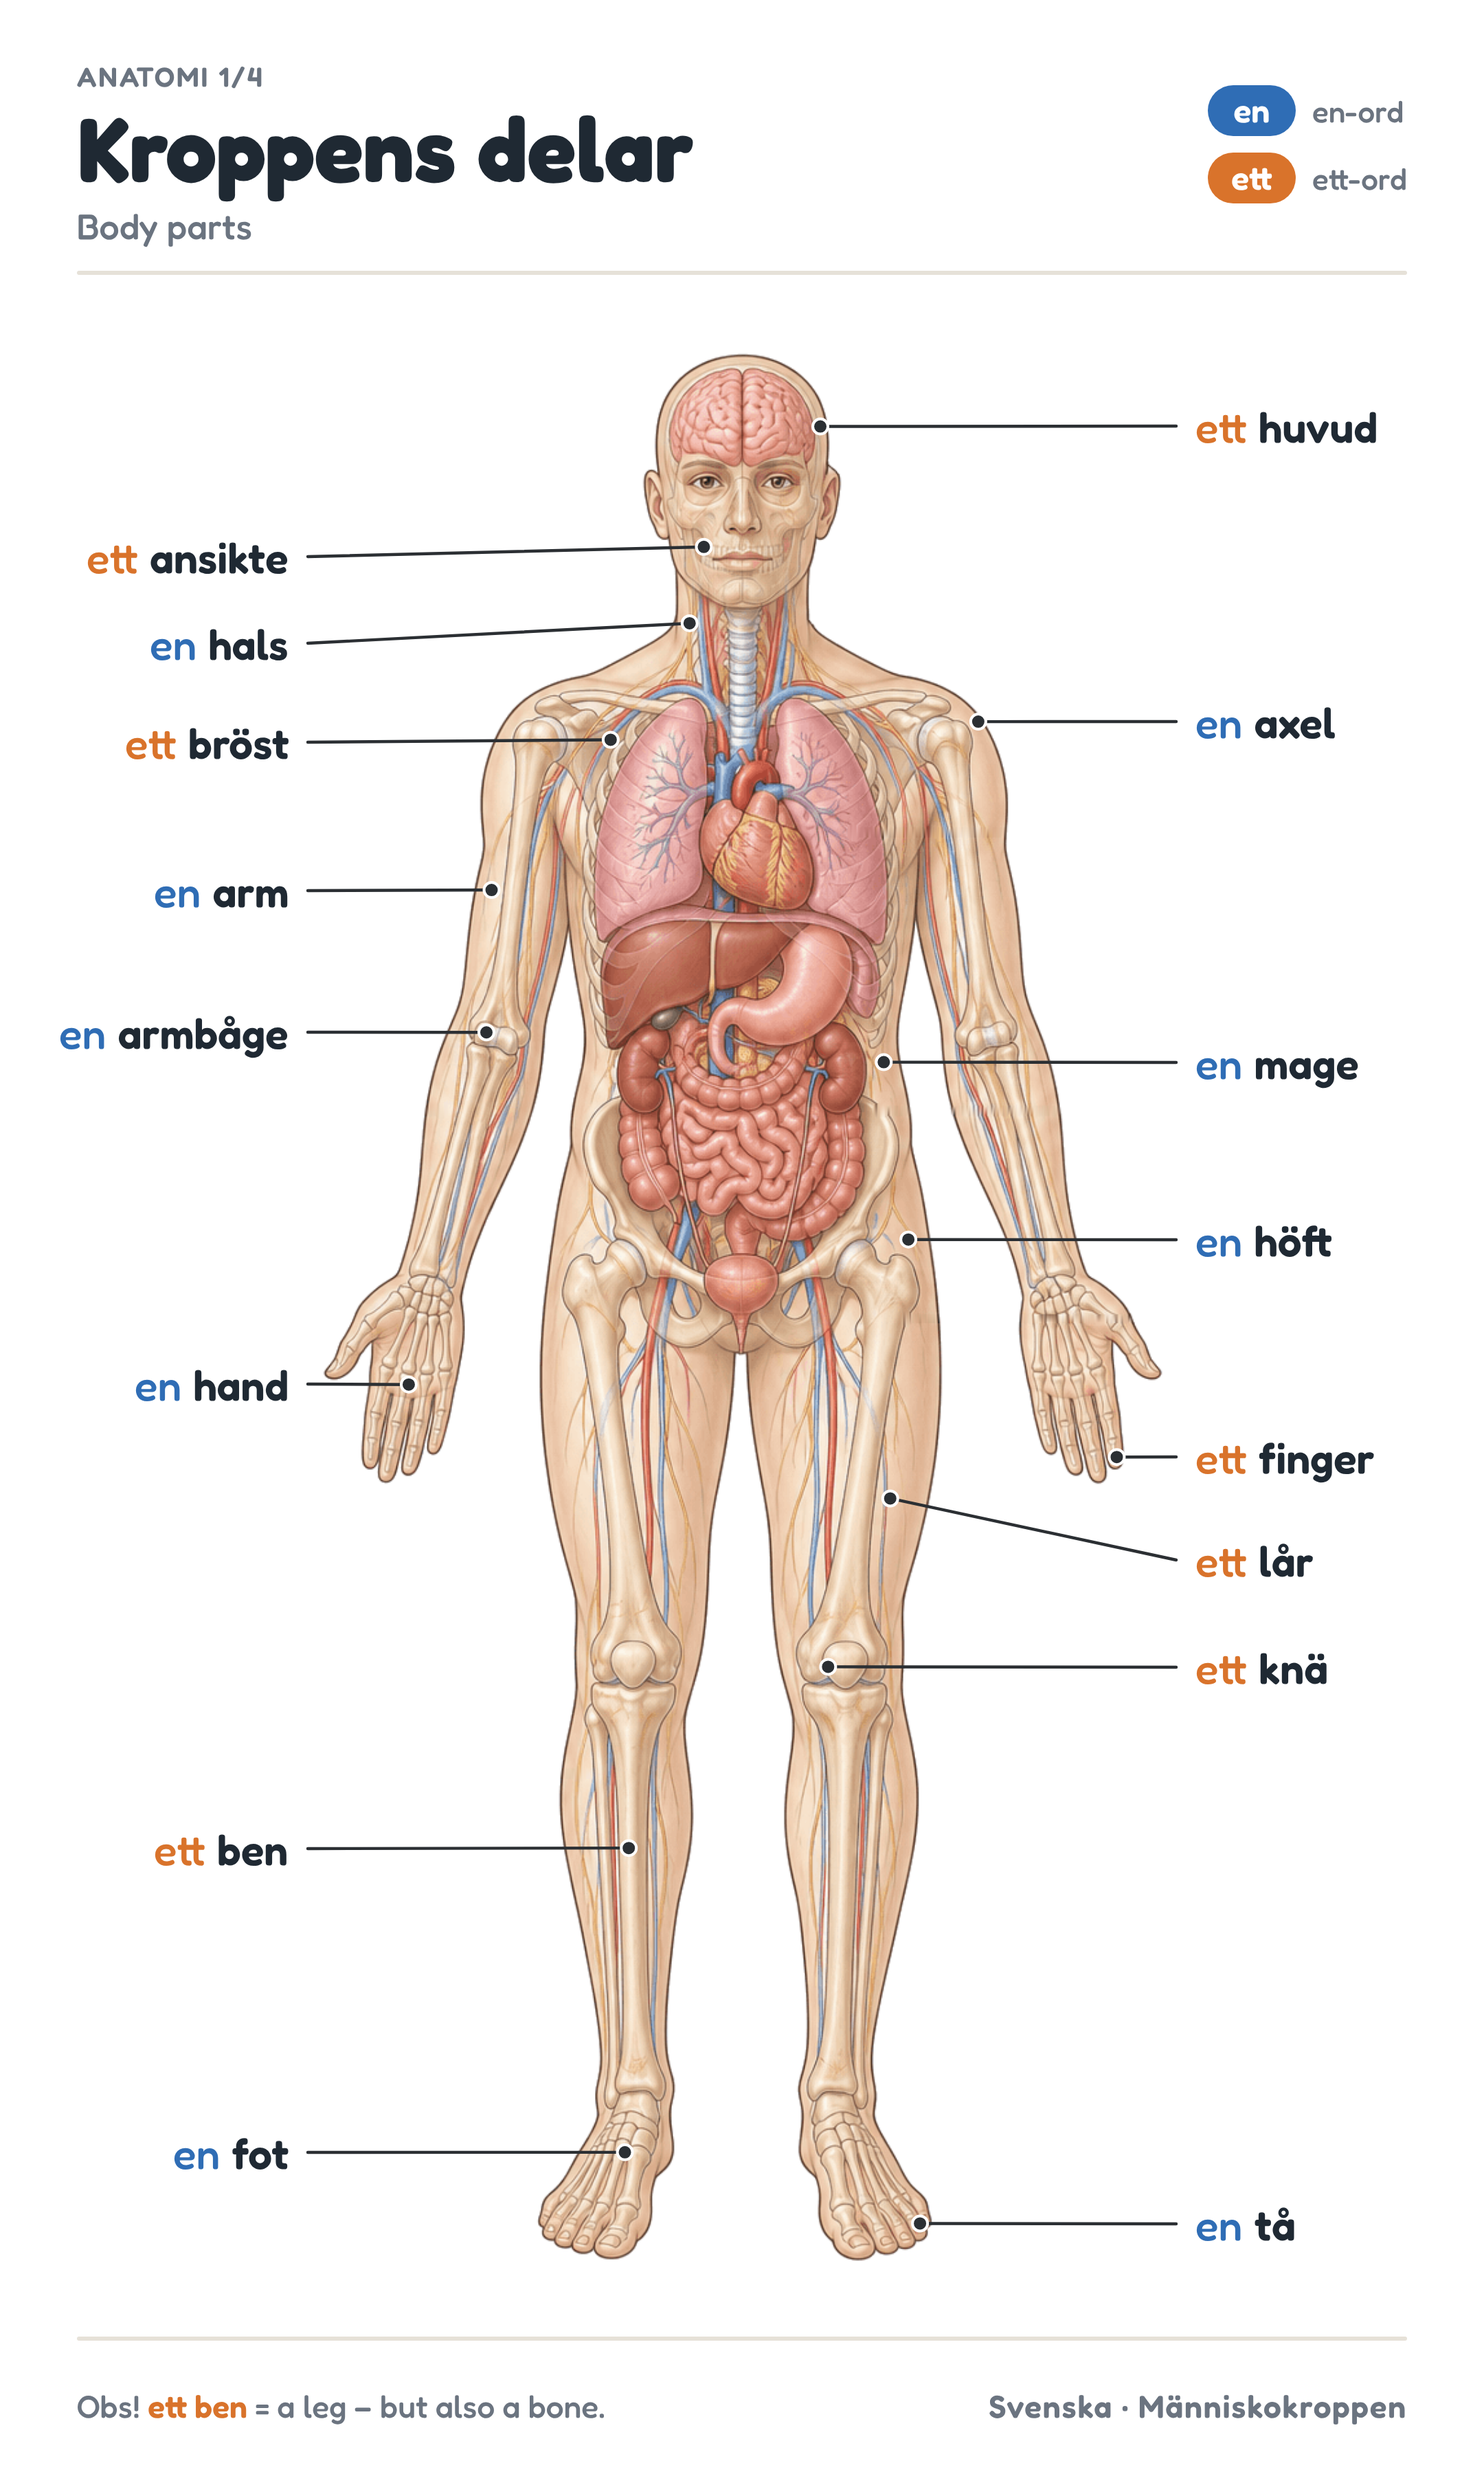
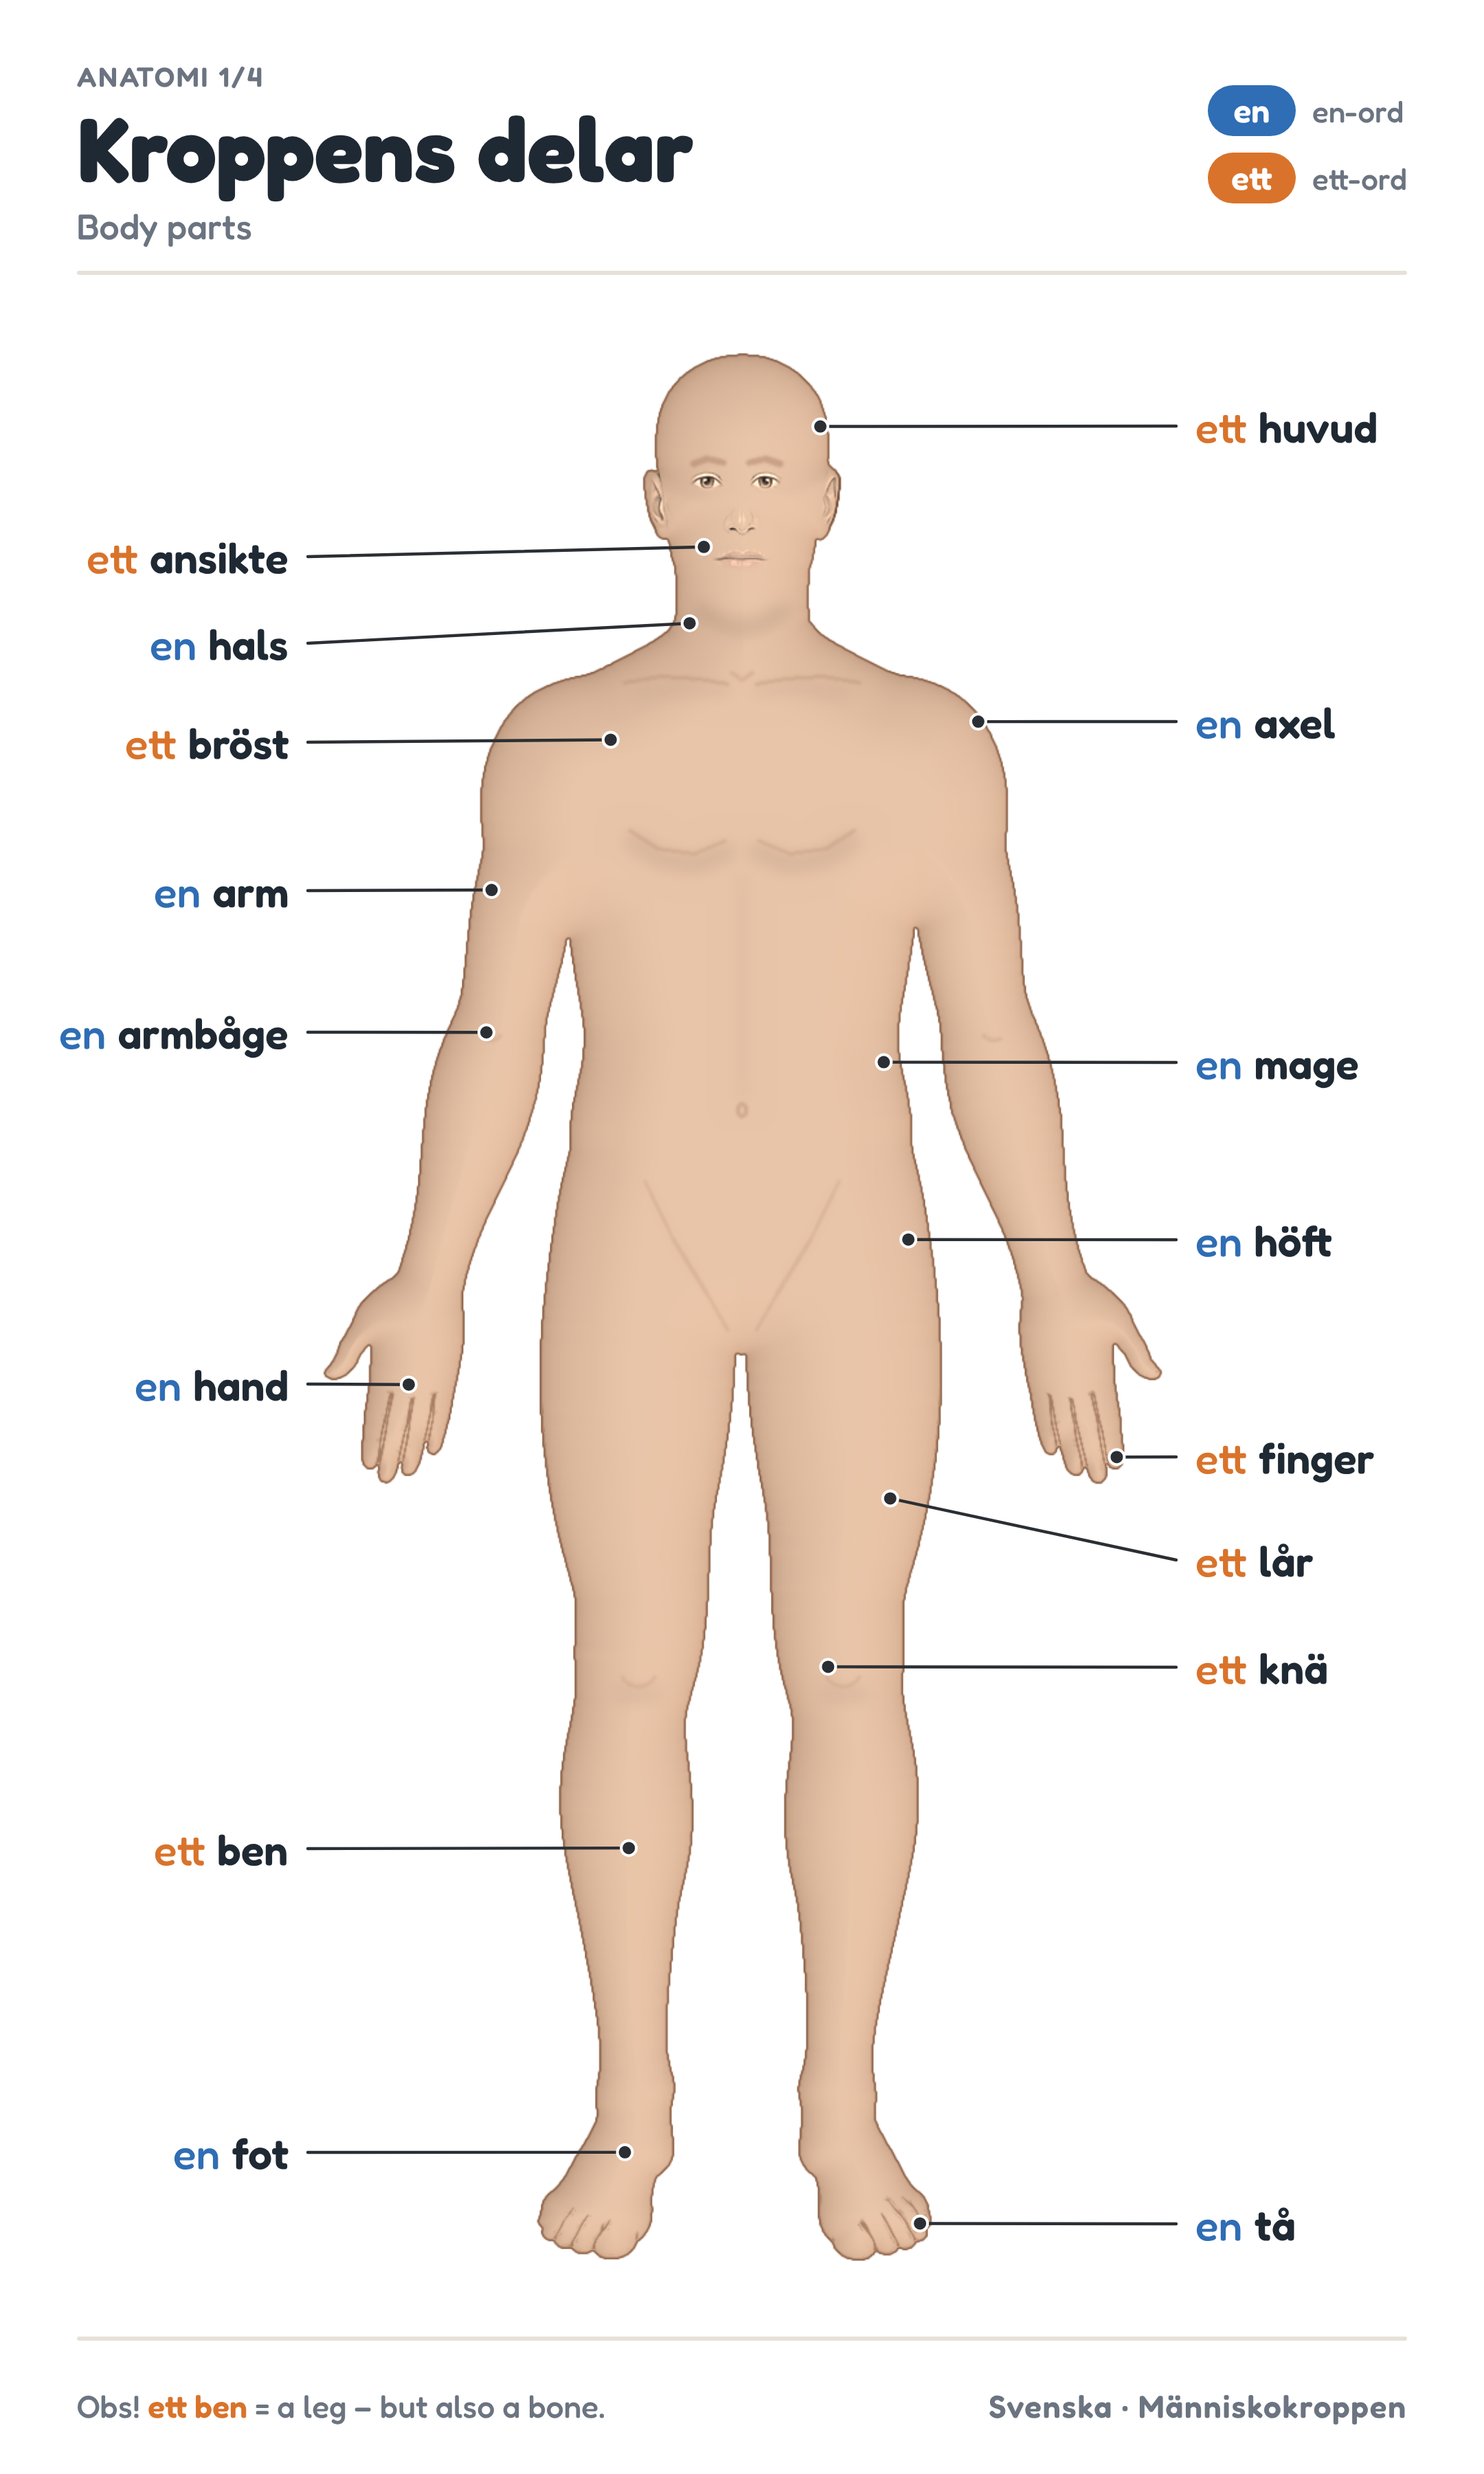
Repaint Kroppens delar figure as skin without internal organs
skin.py rebuilds the body-parts illustration as a plain skin figure in
the same pose (silhouette from clean.png, cylinder shading, face, finger
and toe detail carried over from the original, soft surface lines), so
all 16 callouts and their anchor points are unchanged.

Claude-Session: https://claude.ai/code/session_01TG5BPAGj8tCVEq5a6crAoD

Changed region(s): [[0.2171, 0.1244, 0.7755, 0.9333]]

diff --git a/anatomi/kroppen/poster.html b/anatomi/kroppen/poster.html
@@ -4,7 +4,7 @@
   number: 1,
   title: 'Kroppens delar',
   subtitle: 'Body parts',
-  image: { src: 'clean.png', crop: [150, 8, 822, 1494], x: 224, y: 50, width: 633 },
+  image: { src: 'skin.png', crop: [150, 8, 822, 1494], x: 224, y: 50, width: 633 },
   labelX: { L: 212, R: 868 },
   labels: [
     // left column = the figure's right side

diff --git a/anatomi/kroppen/skin.py b/anatomi/kroppen/skin.py
@@ -1,0 +1,180 @@
+"""Repaint the body-parts figure as plain skin (no organs, bones or vessels).
+
+Reads clean.png (label-free, same pose and pixel coordinates as source.png) and
+writes skin.png. The silhouette and pose are unchanged, so the anchor points in
+poster.html stay valid.
+
+1. Silhouette: everything not connected to the white border background,
+   smoothed at 4x so the contour is not jagged.
+2. Skin: one skin tone, shaded like a cylinder across each limb (distance to the
+   edge / local half-width) and lit slightly from the upper left.
+3. Face and ears: eyes, brows, nose, lips and ear folds are carried over from the
+   original as a soft-thresholded high-pass inside small feature masks, so the
+   strong strokes survive and the faint skull lines do not.
+4. Fingers and toes: the dark skin-outline strokes that separate them are copied
+   from the original (only in the finger/toe zones, small specks dropped).
+5. Surface lines: a few soft strokes (collarbones, chest, navel, groin, knees,
+   elbows, ankles) drawn in source pixel coordinates.
+6. Outline: a warm brown contour along the silhouette.
+
+Run: python3 anatomi/kroppen/skin.py
+"""
+import os
+import cv2
+import numpy as np
+
+HERE = os.path.dirname(os.path.abspath(__file__))
+src = cv2.imread(os.path.join(HERE, 'clean.png'), cv2.IMREAD_COLOR).astype(np.float32)
+H, W = src.shape[:2]
+MID = 485  # the figure's midline (x)
+gray = cv2.cvtColor(src.astype(np.uint8), cv2.COLOR_BGR2GRAY).astype(np.float32)
+
+# ---------------------------------------------------------------- silhouette
+near_white = (src.min(axis=2) >= 244).astype(np.uint8)
+ff = near_white.copy()
+flood = np.zeros((H + 2, W + 2), np.uint8)
+for x in range(0, W, 4):
+    for y in (0, H - 1):
+        if ff[y, x] == 1:
+            cv2.floodFill(ff, flood, (x, y), 2)
+for y in range(0, H, 4):
+    for x in (0, W - 1):
+        if ff[y, x] == 1:
+            cv2.floodFill(ff, flood, (x, y), 2)
+body = (ff != 2).astype(np.uint8)
+n, lab, stats, _ = cv2.connectedComponentsWithStats(body, 8)
+body = np.isin(lab, [i for i in range(1, n) if stats[i, cv2.CC_STAT_AREA] > 400]).astype(np.uint8)
+
+# smooth the contour at 4x, then derive alpha and the outline band from it
+S = 4
+big = cv2.resize(body.astype(np.float32), (W * S, H * S), interpolation=cv2.INTER_LINEAR)
+big = cv2.GaussianBlur(big, (0, 0), 3.0)
+bigm = (big > 0.5).astype(np.uint8)
+din = cv2.distanceTransform(bigm, cv2.DIST_L2, 5) / S  # inside distance, source px
+alpha = cv2.resize(bigm.astype(np.float32), (W, H), interpolation=cv2.INTER_AREA)
+line_w = 1.6
+edge_big = np.clip((line_w - din) / 0.6 + 0.5, 0, 1) * bigm
+edge = cv2.resize(edge_big.astype(np.float32), (W, H), interpolation=cv2.INTER_AREA)
+body = (alpha > 0.5).astype(np.uint8)
+
+# ---------------------------------------------------------------- shading
+dist = cv2.distanceTransform(body, cv2.DIST_L2, 5)
+halfw = cv2.dilate(dist, cv2.getStructuringElement(cv2.MORPH_ELLIPSE, (61, 61)))
+halfw = cv2.GaussianBlur(halfw, (0, 0), 10)
+halfw = np.clip(halfw, 4, 70)  # wide torso: shade only the flanks
+t = np.clip(dist / halfw, 0, 1)
+cyl = np.sqrt(1 - (1 - t) ** 2)  # 0 at the edge, 1 on the ridge
+
+sm = cv2.GaussianBlur(dist, (0, 0), 3)
+gx = cv2.Sobel(sm, cv2.CV_32F, 1, 0, ksize=5)
+gy = cv2.Sobel(sm, cv2.CV_32F, 0, 1, ksize=5)
+mag = np.sqrt(gx ** 2 + gy ** 2) + 1e-3
+facing = (gx * -0.6 + gy * -0.8) / mag  # > 0: the nearest edge is up-left (lit side)
+side = np.clip(facing, -1, 1) * (1 - t) * 0.07
+
+shade = 0.80 + 0.20 * cyl + side
+base = np.array([168, 196, 232], np.float32)  # BGR, warm light skin
+skin = base[None, None, :] * shade[..., None]
+skin += np.array([-10, -6, 4], np.float32)[None, None, :] * (1 - cyl)[..., None]
+
+
+def soft_mask(ellipses, blur):
+    m = np.zeros((H, W), np.float32)
+    for (cx, cy, rx, ry) in ellipses:
+        cv2.ellipse(m, (cx, cy), (rx, ry), 0, 0, 360, 1, -1)
+    return cv2.GaussianBlur(m, (0, 0), blur)
+
+
+# ---------------------------------------------------------------- face, ears
+# Multiplicative detail transfer: ratio of each pixel to its local average, in
+# log space, soft-thresholded so faint skull lines vanish and the strong eye,
+# nose, lip and ear strokes remain. No colour patch is pasted, so no seams.
+lum = gray + 1.0
+logr = np.log(lum / cv2.GaussianBlur(lum, (0, 0), 3.5))
+detail = np.sign(logr) * np.maximum(np.abs(logr) - 0.07, 0)
+features = soft_mask([
+    (459, 113, 11, 6), (502, 113, 10, 6),     # eyes (not brows: drawn below)
+    (484, 146, 11, 9),                        # nose tip and nostrils
+    (484, 174, 18, 5),                        # lips (the line between them)
+    (422, 130, 6, 22), (556, 130, 6, 22),     # ears
+], 2)
+EYE_MID = 961  # eyes at x 459 and 502 -> mirror axis x = 480.5
+flip_detail = detail[:, ::-1]
+flip_detail = np.roll(flip_detail, EYE_MID - (W - 1), axis=1)  # x -> 961 - x
+flip_src = np.roll(src[:, ::-1], EYE_MID - (W - 1), axis=1)
+left_eye = soft_mask([(502, 113, 13, 8)], 1.5)
+detail = detail * (1 - left_eye) + flip_detail * left_eye
+src_eyes = src * (1 - left_eye[..., None]) + flip_src * left_eye[..., None]
+skin *= np.exp(detail * 1.2 * features)[..., None]
+# iris and lip colour, lightly
+colour = soft_mask([(459, 113, 4, 4), (502, 113, 4, 4)], 1.2)
+skin = skin * (1 - colour[..., None] * 0.5) + src_eyes * (colour[..., None] * 0.5)
+lips = soft_mask([(484, 175, 15, 5)], 2.0)
+skin = skin * (1 - lips[..., None] * 0.18) + np.array([120, 130, 200], np.float32) * (lips[..., None] * 0.18)
+
+# ---------------------------------------------------------------- fingers, toes
+zones = np.zeros((H, W), np.uint8)
+zones[800:900, 150:360] = 1     # fingers, figure's right hand
+zones[800:900, 620:850] = 1     # fingers, figure's left hand
+zones[1438:1500, 340:690] = 1   # toes
+core = ((gray < 150) & (zones > 0)).astype(np.uint8)
+n, lab, stats, _ = cv2.connectedComponentsWithStats(core, 8)
+core = np.isin(lab, [i for i in range(1, n) if stats[i, cv2.CC_STAT_AREA] >= 25]).astype(np.uint8)
+region = cv2.dilate(core, cv2.getStructuringElement(cv2.MORPH_ELLIPSE, (5, 5)))
+# continuous (anti-aliased) darkness of the original strokes, so lines stay unbroken
+dark = np.clip((185 - gray) / 60, 0, 1) * region * (dist > 2.5)
+dark = cv2.GaussianBlur(dark, (0, 0), 0.5) * 0.8
+
+# ---------------------------------------------------------------- form shadows
+shadow = np.zeros((H, W), np.float32)
+
+
+def shade_stroke(pts, w, a, mirror=True):
+    for p in ([pts, [(2 * MID - x, y) for x, y in pts]] if mirror else [pts]):
+        layer = np.zeros((H, W), np.float32)
+        cv2.polylines(layer, [np.array(p, np.int32)], False, a, w, cv2.LINE_AA)
+        np.maximum(shadow, layer, out=shadow)
+
+
+shade_stroke([(452, 214), (468, 224), (485, 228)], 10, 0.7)                 # under the jaw
+shade_stroke([(400, 392), (422, 406), (450, 410), (474, 400)], 10, 0.55)    # under the chest
+shade_stroke([(475, 276), (440, 274), (405, 278)], 6, 0.35)                 # below the collarbone
+shade_stroke([(485, 420), (485, 590)], 6, 0.25, mirror=False)               # abdomen midline
+shade_stroke([(392, 1050), (405, 1052), (418, 1050)], 10, 0.4)              # below the kneecap
+shadow = cv2.GaussianBlur(shadow, (0, 0), 6) * (body > 0)
+skin *= (1 - 0.16 * shadow)[..., None]
+
+# ---------------------------------------------------------------- surface lines
+ink = np.zeros((H, W), np.float32)
+
+
+def stroke(pts, w=2, a=1.0, mirror=True):
+    for p in ([pts, [(2 * MID - x, y) for x, y in pts]] if mirror else [pts]):
+        layer = np.zeros((H, W), np.float32)
+        cv2.polylines(layer, [np.array(p, np.int32)], False, a, w, cv2.LINE_AA)
+        np.maximum(ink, layer, out=ink)
+
+
+stroke([(474, 271), (452, 267), (422, 265), (394, 270)], 2, 0.5)           # collarbone
+stroke([(477, 262), (485, 268)], 2, 0.4)                                   # sternal notch
+stroke([(398, 384), (420, 398), (448, 402), (472, 392)], 2, 0.45)          # lower edge of chest
+stroke([(410, 655), (432, 700), (458, 742), (474, 770)], 2, 0.4)           # groin line
+stroke([(447, 101), (458, 97), (471, 100)], 3, 0.9, mirror=False)          # brows
+stroke([(490, 100), (503, 97), (515, 101)], 3, 0.9, mirror=False)
+cv2.ellipse(ink, (MID, 600), (3, 5), 0, 0, 360, 0.7, 2, cv2.LINE_AA)       # navel
+for cx in (405, 563):                                                      # kneecap: lower edge only
+    cv2.ellipse(ink, (cx, 1030), (15, 15), 0, 30, 150, 0.35, 2, cv2.LINE_AA)
+for (cx, cy, a0, a1) in [(290, 540, 20, 120), (680, 540, 60, 160)]:        # elbow creases
+    cv2.ellipse(ink, (cx, cy), (9, 6), 0, a0, a1, 0.4, 2, cv2.LINE_AA)
+ink = cv2.GaussianBlur(ink, (0, 0), 1.0)
+
+inkcol = np.array([95, 120, 165], np.float32)   # soft brown (BGR)
+skin = skin * (1 - ink[..., None] * 0.5) + inkcol * (ink[..., None] * 0.5)
+outline = np.array([62, 88, 132], np.float32)   # darker brown (BGR)
+skin = skin * (1 - dark[..., None] * 0.8) + outline * (dark[..., None] * 0.8)
+skin = skin * (1 - edge[..., None] * 0.9) + outline * (edge[..., None] * 0.9)
+
+# ---------------------------------------------------------------- composite
+out = 255 * (1 - alpha[..., None]) + skin * alpha[..., None]
+cv2.imwrite(os.path.join(HERE, 'skin.png'), np.clip(out, 0, 255).astype(np.uint8))
+print('wrote', os.path.join(HERE, 'skin.png'))

diff --git a/README.md b/README.md
@@ -54,6 +54,8 @@ Sources per category in `anatomi/<kroppen|organ|muskler|skelett>/`:
 
 - `source.png`: the original English-labelled illustration
 - `clean.py` → `clean.png`: removes the English labels, leader lines and dots
+- `kroppen/skin.py` → `skin.png` (body parts only): repaints the figure as plain skin, without
+  the organs, bones and vessels of the original, keeping the same pose so the label anchors still fit
 - `poster.html`: label data (`window.POSTER`) for the shared template in `anatomi/shared/`
 
 Re-render one poster (add `?grid` to the HTML path for a coordinate overlay; layout
